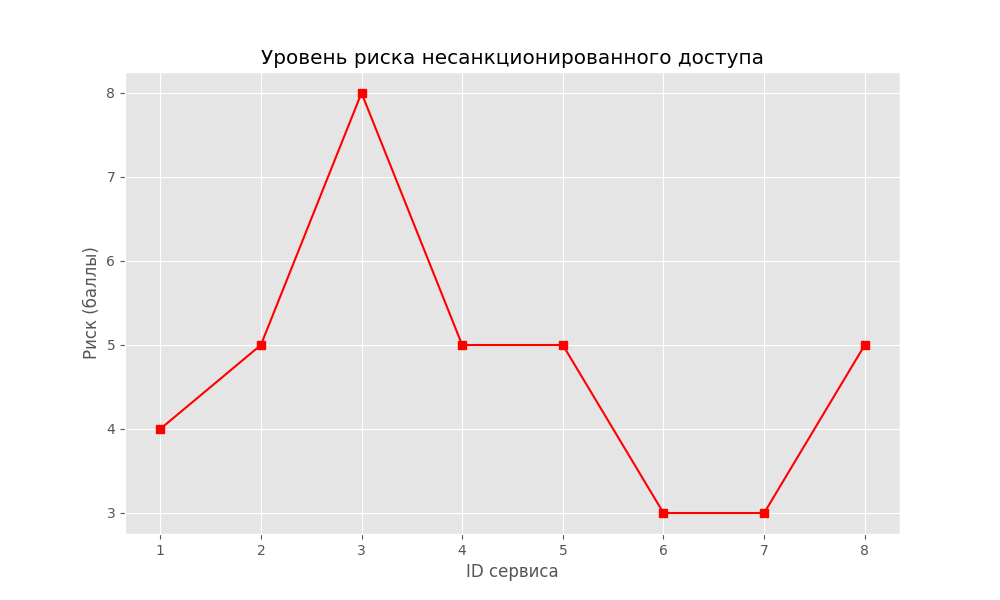
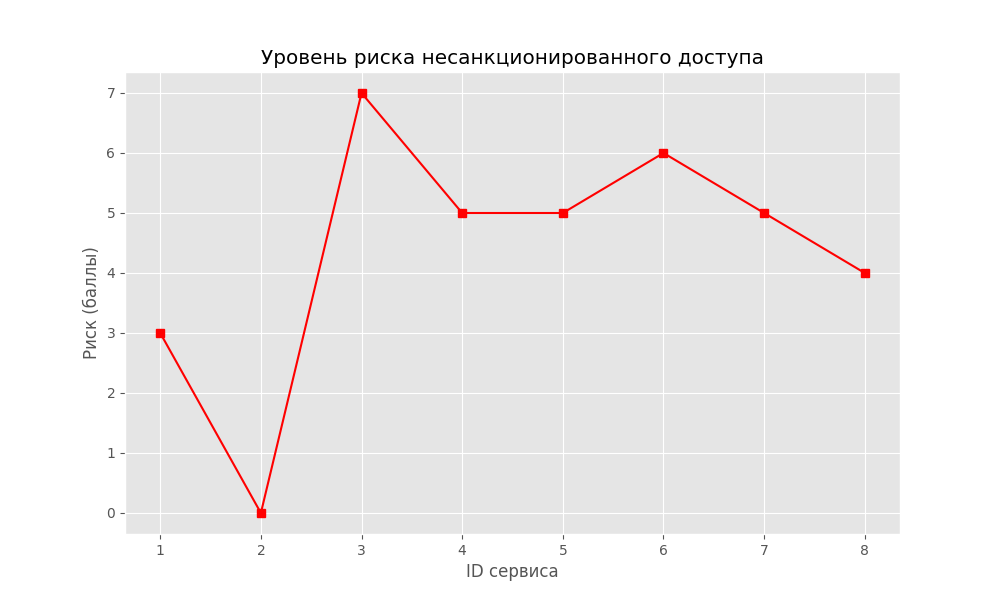
Изменение2

diff --git a/main.py b/main.py
@@ -209,9 +209,9 @@
 
 #ЛР_3
 #Общее задание
-import os 
-my_secret=os.environ['MY_SECRET']
-print(my_secret)
+# import os 
+# my_secret=os.environ['MY_SECRET']
+# print(my_secret)
 
 
 
@@ -227,6 +227,9 @@ print(my_secret)
 import os 
 my_secret=os.environ['SEC_Kuznetsova_3']
 print(my_secret)
+
+
+
 
 #Задание_2_берем код из индивидуальной части лр_2
 #вариант 2 
@@ -319,6 +322,9 @@ plt.figure()
 #(что это значит?)
 # На вопросы Малахова Д.С. ответила верно, 5/5. 
 
+# 5 задание с SHell
+# 6 задание. Подвязан аккаунт на гитхаб и подгружены файлы в репозиторий. 
+# 7 задание. Внесены изменения  # изменение1  C_ost 50000 на 70000 
 
 
 #ИНДИВИДУАЛЬНАЯ ЧАСТЬ ЛР_3
@@ -378,7 +384,7 @@ for i in range(n):
     if token_reuse[i] == 1:
         risk += 2
     risk_level.append(risk)
-    if risk >= 3:
+    if risk >= 4: #Изменения2. Пороговое значение риска изменено с 3 на 4 
         decision.append("BLOCK")
     else:
         decision.append("ALLOW")
@@ -484,3 +490,18 @@ plt.close()
 # print(" - chart_pie.png (круговая диаграмма решений)")
 # print(" - chart_risk_bars.png (гистограмма риска)")
 # print(" - risk_factors_sum.png (факторы риска)")
+
+#Задание 1. Секреты 
+import os
+from getpass import getpass
+
+SECRET_LOGIN = os.environ['SECRET_LOGIN']
+SECRET_PASSWORD = os.environ['SECRET_PASSWORD']
+
+user_login = input("Введите логин: ")
+user_password = input("Введите пароль: ")  # пароль не отображается при вводе
+
+if user_login == SECRET_LOGIN and user_password == SECRET_PASSWORD:
+    print("\n Доступ разрешён!")
+else:
+    print("\n Доступ запрещён!")
